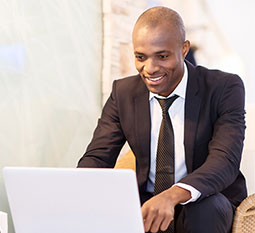
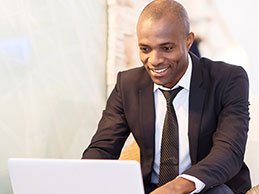
Fixed Aw139 and S76 pictures display in Sub-products

diff --git a/public/js/app/views/min/SubProductView-min.js b/public/js/app/views/min/SubProductView-min.js
@@ -1,1 +1,1 @@
-define(["jquery","hbs!templates/subproduct","backbone","models/Model","marionette"],function($,e,t,i){return t.Marionette.ItemView.extend({template:e,model:null,subproduct:{},events:{"click .more-info":"MoreInfo","mouseover .subfeature":"ShowSubFeat","mouseout .subfeature":"HideSubFeat"},initialize:function(e){if(this.subproduct.slug=e.subtype,this.subproduct.gallery={},this.subproduct.parent=e.type,this.subproduct.parent_name=this.subproduct.parent.replace("-"," ").replace("-"," "),"gulfsteam-giv-sp"===this.subproduct.slug){this.subproduct.banner="g450",this.subproduct.name="The Gulfstream GIV-SP",this.subproduct.des="<p>The Gulfstream GIV-SP provides the edge that every smart executive traveller is looking for. From its advanced sound suppression system, to its fresh air circulation; from its roomy cabin, to its signature oval windows which give two times more natural light to the cabin; the GIV-SP has been labeled “Best of the Best in the large aircraft category”. This jet has a cabin height of 1.88m (6ft 2in), a cabin length of 12.29m (40ft 4 in), and a total interior length of 13.74m (49ft 1in).</p>",this.subproduct.title="Aircraft Details",this.subproduct.features=[{icon:"check",cols:"12",align:"center",title:"On-board Amenities",subfeatures:[{icon:"phone",value:"7 channel Honeywell satellite communications system for phone and modem transmissions"},{icon:"mobile-phone",value:"Satellite Phone"},{icon:"wifi",value:"Wireless Local Network"},{icon:"print",value:"multi-function printer"},{icon:"bed",value:"4 single beds and 1 double bed capacity"},{icon:"music",value:"CD/DVD and sound system"},{icon:"cutlery",value:"microwave and oven"},{icon:"coffee",value:"coffee maker"},{icon:"male",value:"restroom"},{icon:"desktop",value:"hi-definition TV screens"}]},{icon:"calendar",cols:"3",align:"center",title:"Year of Manufacture",value:"2000"},{icon:"clock-o",cols:"3",align:"center",title:"Non-stop Flight Time",value:"8 Hours"},{icon:"send",cols:"3",align:"center",title:"Range",value:"4,860 miles"},{icon:"group",cols:"3",align:"center",title:"Seating Capacity",value:"14 Passengers"}],this.subproduct.gallery.title="Inside the Gulfstream G-IV SP",this.subproduct.gallery.count=69,this.subproduct.gallery.path="http://demos.shixels.com/nest_av/img/g450/g450-",this.subproduct.gallery.images=[];for(var t=1;t<=this.subproduct.gallery.count;t++)59!==t&&this.subproduct.gallery.images.push({path:this.subproduct.gallery.path+t+".jpg"})}if("gulfsteam-G200"===this.subproduct.slug){this.subproduct.banner="g200",this.subproduct.name="The Gulfstream G200",this.subproduct.des="<p>The G-200 offers the range and comfort of a large jet, but is a super mid-size jet. This jet is a 2 crew aircraft with a length of 18.97m (62ft 3 in), a cabin width of 2.18m (7ft 2in), and a cabin height of 1.91m (6ft 3in).</p>",this.subproduct.title="Aircraft Details",this.subproduct.features=[{icon:"check",cols:"12",align:"center",title:"On-board Amenities",subfeatures:[{icon:"mobile-phone",value:"Satellite Phone"},{icon:"suitcase",value:"accessible rear baggage compartment"},{icon:"bed",value:"4 bed capacity"},{icon:"music",value:"iPod touch, DVD player, & cabin sound system"}]},{icon:"calendar",cols:"3",align:"center",title:"Year of Manufacture",value:"2008"},{icon:"clock-o",cols:"3",align:"center",title:"Non-stop Flight Time",value:"6 Hours"},{icon:"send",cols:"3",align:"center",title:"Range",value:"6300km (3,910 miles)"},{icon:"group",cols:"3",align:"center",title:"Seating Capacity",value:"8 Passengers"}],this.subproduct.gallery.title="Inside the G200",this.subproduct.gallery.count=1,this.subproduct.gallery.path="http://demos.shixels.com/nest_av/img/g200/g200-",this.subproduct.gallery.images=[];for(var s=1;s<=this.subproduct.gallery.count;s++)this.subproduct.gallery.images.push({path:this.subproduct.gallery.path+s+".jpg"})}if("sikorsky-s76"===this.subproduct.slug){this.subproduct.banner="sikorsky",this.subproduct.name="The Sikorsky S76 ",this.subproduct.subheading="Operates out of Port Harcourt",this.subproduct.des="<p>VIP configured aircraft which is able to fly passengers in safety and comfort to all locations, onshore or offshore. It is a twin-engine multi-purpose aircraft with a length of 16m (52ft 49in), a height of 4.42m (14ft 5in), and a rate of climb of 495 miles/min (1625 ft/min).</p>",this.subproduct.title="Aircraft Details",this.subproduct.features=[{icon:"check",cols:"12",align:"center",title:"On-board Amenities",subfeatures:[{icon:"mobile-phone",value:"Satellite Phone"},{icon:"music",value:"DVD (2 screens) & passenger individual headset jack"},{icon:"coffee",value:"Coffee Maker"},{icon:"cutlery",value:"refrigerator & minibar"}]},{icon:"calendar",cols:"3",align:"center",title:"Year of Manufacture",value:"2008"},{icon:"clock-o",cols:"3",align:"center",title:"Non-stop Flight Time",value:"2 Hours"},{icon:"send",cols:"3",align:"center",title:"Range",value:"832 km (517 miles)"},{icon:"group",cols:"3",align:"center",title:"Seating Capacity",value:"6 Passengers"}],this.subproduct.gallery.title="Inside the Sikorsky S76",this.subproduct.gallery.count=7,this.subproduct.gallery.path="http://demos.shixels.com/nest_av/img/sikorsky/sikorsky-",this.subproduct.gallery.images=[];for(var a=1;a<=this.subproduct.gallery.count;a++)this.subproduct.gallery.images.push({path:this.subproduct.gallery.path+a+".JPG"})}if("agustswestland-aw139"===this.subproduct.slug){this.subproduct.banner="bg-aw139",this.subproduct.name="The AgustaWestland AW139 ",this.subproduct.subheading="Operates out of Port Harcourt",this.subproduct.des="<p>We have two (2) units of the AW139 utility configured helicopters to facilitate our operations in the helicopter charter service. This aircraft is flown by a 2-man crew, and has a 12-15 passenger seating capacity. The length of the helicopter is 13.77m (45ft 3in), the width is 2.26m (10ft 0 in), the height is 3.72m (12ft 2in). They have a maximum speed of 310km/h (193mph), and a rate of climb of 10.9miles/sec (2140ft/min).</p>",this.subproduct.title="Aircraft Details",this.subproduct.features=[{icon:"check",cols:"12",align:"center",title:"On-board Amenities",subfeatures:[{icon:"mobile-phone",value:"Satellite Phone"},{icon:"music",value:"DVD (2 screens) & passenger individual headset jack"},{icon:"coffee",value:"Coffee Maker"},{icon:"cutlery",value:"refrigerator & minibar"}]},{icon:"calendar",cols:"3",align:"center",title:"Year of Manufacture",value:"2011"},{icon:"clock-o",cols:"3",align:"center",title:"Non-stop Flight Time",value:"3.5 Hours"},{icon:"send",cols:"3",align:"center",title:"Range",value:"1,061km (573 miles)"},{icon:"group",cols:"3",align:"center",title:"Seating Capacity",value:"12 Passengers"}],this.subproduct.gallery.title="Inside the AgustaWestland AW139",this.subproduct.gallery.count=11,this.subproduct.gallery.path="http://demos.shixels.com/nest_av/img/aw139/aw139-",this.subproduct.gallery.images=[];for(var o=1;o<=this.subproduct.gallery.count;o++)this.subproduct.gallery.images.push({path:this.subproduct.gallery.path+o+".JPG"})}"bombardier-challenger-300"===this.subproduct.slug&&(this.subproduct.banner="bom300",this.subproduct.name="The Bombardier Challenger 300",this.subproduct.subheading="Operates out of Port Harcourt",this.subproduct.des="<p>The Bombardier Challenger 300 is a super- midsize business jet offering exceptional comfort and performance with a 6,149km range.</p>",this.subproduct.title="Aircraft Details",this.subproduct.features=[{icon:"check",cols:"12",align:"center",title:"On-board Amenities",subfeatures:[{icon:"mobile-phone",value:"Satellite Phone"},{icon:"music",value:"Cabin sound system"},{icon:"bed",value:"2 bed capacity"},{icon:"male",value:"restroom"},{icon:"coffee",value:"Coffee Maker"},{icon:"cutlery",value:"microwave oven"},{icon:"desktop",value:"20” wide-screen monitors"}]},{icon:"calendar",cols:"3",align:"center",title:"Year of Manufacture",value:"2009"},{icon:"clock-o",cols:"3",align:"center",title:"Non-stop Flight Time",value:"8 Hours"},{icon:"send",cols:"3",align:"center",title:"Range",value:"6,149km"},{icon:"group",cols:"3",align:"center",title:"Seating Capacity",value:"8 Passengers"}],this.subproduct.gallery.title=null),"dessault-falcon-900dx"===this.subproduct.slug&&(this.subproduct.banner="des900dx",this.subproduct.name="The Dassault Falcon 900DX",this.subproduct.subheading="Operates out of Port Harcourt",this.subproduct.des="<p>The Dassault Falcon 900DX is a tri-engine, large cabin business jet with one of the largest cabins in its class.</p>",this.subproduct.title="Aircraft Details",this.subproduct.features=[{icon:"check",cols:"12",align:"center",title:"On-board Amenities",subfeatures:[{icon:"mobile-phone",value:"Satellite Phone"},{icon:"music",value:"Cabin sound system"},{icon:"bed",value:"4 bed capacity"},{icon:"male",value:"restroom"},{icon:"coffee",value:"Coffee Maker"},{icon:"cutlery",value:"microwave oven & well stocked gallery"}]},{icon:"calendar",cols:"3",align:"center",title:"Year of Manufacture",value:"2007"},{icon:"clock-o",cols:"3",align:"center",title:"Non-stop Flight Time",value:"10 Hours"},{icon:"send",cols:"3",align:"center",title:"Range",value:"7,950 km"},{icon:"group",cols:"3",align:"center",title:"Seating Capacity",value:"14 Passengers"}],this.subproduct.gallery.title=null),"phenom-300"===this.subproduct.slug&&(this.subproduct.banner="phen300",this.subproduct.name="The Phenom 300",this.subproduct.subheading="Operates out of Port Harcourt",this.subproduct.des="<p>These spacious and comfortable best-in-class jets set a new standard for business jets. Its range, speed, comfort and intelligent design all combine to suit the need of a business traveller. It has a 6 passenger seating capacity, a range of 3,650km (2,268 miles), a length of 15.9m (52ft 2 in) and a cabin height of 1.5m (4ft 9 in).</p>",this.subproduct.title="Aircraft Details",this.subproduct.features=[{icon:"check",cols:"12",align:"center",title:"On-board Amenities",subfeatures:[{icon:"mobile-phone",value:"Satellite Phone"},{icon:"music",value:"Cabin sound system"},{icon:"male",value:"restroom"},{icon:"coffee",value:"Coffee Maker"},{icon:"cutlery",value:"microwave oven"}]}],this.subproduct.gallery.title=null),this.model=new i({subproduct:this.subproduct}),$(function(){$('[data-toggle="tooltip"]').tooltip()}),console.log(this.subproduct)},onRender:function(){nest.api.core.cleanView(this,".serv-menu")},MoreInfo:function(e){e.preventDefault();var t=$(e.currentTarget).data("hash");window.location.hash=t},ShowSubFeat:function(e){$(e.currentTarget).find(".sub-value").css("display","table")},HideSubFeat:function(e){$(e.currentTarget).find(".sub-value").css("display","none")}})});
+define(["jquery","hbs!templates/subproduct","backbone","models/Model","marionette"],function($,e,t,i){return t.Marionette.ItemView.extend({template:e,model:null,subproduct:{},events:{"click .more-info":"MoreInfo","mouseover .subfeature":"ShowSubFeat","mouseout .subfeature":"HideSubFeat"},initialize:function(e){if(this.subproduct.slug=e.subtype,this.subproduct.gallery={},this.subproduct.parent=e.type,this.subproduct.parent_name=this.subproduct.parent.replace("-"," ").replace("-"," "),"gulfsteam-giv-sp"===this.subproduct.slug){this.subproduct.banner="g450",this.subproduct.name="The Gulfstream GIV-SP",this.subproduct.des="<p>The Gulfstream GIV-SP provides the edge that every smart executive traveller is looking for. From its advanced sound suppression system, to its fresh air circulation; from its roomy cabin, to its signature oval windows which give two times more natural light to the cabin; the GIV-SP has been labeled “Best of the Best in the large aircraft category”. This jet has a cabin height of 1.88m (6ft 2in), a cabin length of 12.29m (40ft 4 in), and a total interior length of 13.74m (49ft 1in).</p>",this.subproduct.title="Aircraft Details",this.subproduct.features=[{icon:"check",cols:"12",align:"center",title:"On-board Amenities",subfeatures:[{icon:"phone",value:"7 channel Honeywell satellite communications system for phone and modem transmissions"},{icon:"mobile-phone",value:"Satellite Phone"},{icon:"wifi",value:"Wireless Local Network"},{icon:"print",value:"multi-function printer"},{icon:"bed",value:"4 single beds and 1 double bed capacity"},{icon:"music",value:"CD/DVD and sound system"},{icon:"cutlery",value:"microwave and oven"},{icon:"coffee",value:"coffee maker"},{icon:"male",value:"restroom"},{icon:"desktop",value:"hi-definition TV screens"}]},{icon:"calendar",cols:"3",align:"center",title:"Year of Manufacture",value:"2000"},{icon:"clock-o",cols:"3",align:"center",title:"Non-stop Flight Time",value:"8 Hours"},{icon:"send",cols:"3",align:"center",title:"Range",value:"4,860 miles"},{icon:"group",cols:"3",align:"center",title:"Seating Capacity",value:"14 Passengers"}],this.subproduct.gallery.title="Inside the Gulfstream G-IV SP",this.subproduct.gallery.count=69,this.subproduct.gallery.path="http://demos.shixels.com/nest_av/img/g450/g450-",this.subproduct.gallery.images=[];for(var t=1;t<=this.subproduct.gallery.count;t++)59!==t&&this.subproduct.gallery.images.push({path:this.subproduct.gallery.path+t+".jpg"})}if("gulfsteam-G200"===this.subproduct.slug){this.subproduct.banner="g200",this.subproduct.name="The Gulfstream G200",this.subproduct.des="<p>The G-200 offers the range and comfort of a large jet, but is a super mid-size jet. This jet is a 2 crew aircraft with a length of 18.97m (62ft 3 in), a cabin width of 2.18m (7ft 2in), and a cabin height of 1.91m (6ft 3in).</p>",this.subproduct.title="Aircraft Details",this.subproduct.features=[{icon:"check",cols:"12",align:"center",title:"On-board Amenities",subfeatures:[{icon:"mobile-phone",value:"Satellite Phone"},{icon:"suitcase",value:"accessible rear baggage compartment"},{icon:"bed",value:"4 bed capacity"},{icon:"music",value:"iPod touch, DVD player, & cabin sound system"}]},{icon:"calendar",cols:"3",align:"center",title:"Year of Manufacture",value:"2008"},{icon:"clock-o",cols:"3",align:"center",title:"Non-stop Flight Time",value:"6 Hours"},{icon:"send",cols:"3",align:"center",title:"Range",value:"6300km (3,910 miles)"},{icon:"group",cols:"3",align:"center",title:"Seating Capacity",value:"8 Passengers"}],this.subproduct.gallery.title="Inside the G200",this.subproduct.gallery.count=1,this.subproduct.gallery.path="http://demos.shixels.com/nest_av/img/g200/g200-",this.subproduct.gallery.images=[];for(var s=1;s<=this.subproduct.gallery.count;s++)this.subproduct.gallery.images.push({path:this.subproduct.gallery.path+s+".jpg"})}if("sikorsky-s76"===this.subproduct.slug){this.subproduct.banner="sikorsky",this.subproduct.name="The Sikorsky S76 ",this.subproduct.subheading="Operates out of Port Harcourt",this.subproduct.des="<p>VIP configured aircraft which is able to fly passengers in safety and comfort to all locations, onshore or offshore. It is a twin-engine multi-purpose aircraft with a length of 16m (52ft 49in), a height of 4.42m (14ft 5in), and a rate of climb of 495 miles/min (1625 ft/min).</p>",this.subproduct.title="Aircraft Details",this.subproduct.features=[{icon:"check",cols:"12",align:"center",title:"On-board Amenities",subfeatures:[{icon:"mobile-phone",value:"Satellite Phone"},{icon:"music",value:"DVD (2 screens) & passenger individual headset jack"},{icon:"coffee",value:"Coffee Maker"},{icon:"cutlery",value:"refrigerator & minibar"}]},{icon:"calendar",cols:"3",align:"center",title:"Year of Manufacture",value:"2008"},{icon:"clock-o",cols:"3",align:"center",title:"Non-stop Flight Time",value:"2 Hours"},{icon:"send",cols:"3",align:"center",title:"Range",value:"832 km (517 miles)"},{icon:"group",cols:"3",align:"center",title:"Seating Capacity",value:"6 Passengers"}],this.subproduct.gallery.title="Inside the Sikorsky S76",this.subproduct.gallery.count=7,this.subproduct.gallery.path="http://demos.shixels.com/nest_av/img/sikorsky/sikorsky-",this.subproduct.gallery.images=[];for(var a=1;a<=this.subproduct.gallery.count;a++)this.subproduct.gallery.images.push({path:this.subproduct.gallery.path+a+".jpg"})}if("agustswestland-aw139"===this.subproduct.slug){this.subproduct.banner="bg-aw139",this.subproduct.name="The AgustaWestland AW139 ",this.subproduct.subheading="Operates out of Port Harcourt",this.subproduct.des="<p>We have two (2) units of the AW139 utility configured helicopters to facilitate our operations in the helicopter charter service. This aircraft is flown by a 2-man crew, and has a 12-15 passenger seating capacity. The length of the helicopter is 13.77m (45ft 3in), the width is 2.26m (10ft 0 in), the height is 3.72m (12ft 2in). They have a maximum speed of 310km/h (193mph), and a rate of climb of 10.9miles/sec (2140ft/min).</p>",this.subproduct.title="Aircraft Details",this.subproduct.features=[{icon:"check",cols:"12",align:"center",title:"On-board Amenities",subfeatures:[{icon:"mobile-phone",value:"Satellite Phone"},{icon:"music",value:"DVD (2 screens) & passenger individual headset jack"},{icon:"coffee",value:"Coffee Maker"},{icon:"cutlery",value:"refrigerator & minibar"}]},{icon:"calendar",cols:"3",align:"center",title:"Year of Manufacture",value:"2011"},{icon:"clock-o",cols:"3",align:"center",title:"Non-stop Flight Time",value:"3.5 Hours"},{icon:"send",cols:"3",align:"center",title:"Range",value:"1,061km (573 miles)"},{icon:"group",cols:"3",align:"center",title:"Seating Capacity",value:"12 Passengers"}],this.subproduct.gallery.title="Inside the AgustaWestland AW139",this.subproduct.gallery.count=11,this.subproduct.gallery.path="http://demos.shixels.com/nest_av/img/aw139/aw139-",this.subproduct.gallery.images=[];for(var o=1;o<=this.subproduct.gallery.count;o++)this.subproduct.gallery.images.push({path:this.subproduct.gallery.path+o+".jpg"})}"bombardier-challenger-300"===this.subproduct.slug&&(this.subproduct.banner="bom300",this.subproduct.name="The Bombardier Challenger 300",this.subproduct.subheading="Operates out of Port Harcourt",this.subproduct.des="<p>The Bombardier Challenger 300 is a super- midsize business jet offering exceptional comfort and performance with a 6,149km range.</p>",this.subproduct.title="Aircraft Details",this.subproduct.features=[{icon:"check",cols:"12",align:"center",title:"On-board Amenities",subfeatures:[{icon:"mobile-phone",value:"Satellite Phone"},{icon:"music",value:"Cabin sound system"},{icon:"bed",value:"2 bed capacity"},{icon:"male",value:"restroom"},{icon:"coffee",value:"Coffee Maker"},{icon:"cutlery",value:"microwave oven"},{icon:"desktop",value:"20” wide-screen monitors"}]},{icon:"calendar",cols:"3",align:"center",title:"Year of Manufacture",value:"2009"},{icon:"clock-o",cols:"3",align:"center",title:"Non-stop Flight Time",value:"8 Hours"},{icon:"send",cols:"3",align:"center",title:"Range",value:"6,149km"},{icon:"group",cols:"3",align:"center",title:"Seating Capacity",value:"8 Passengers"}],this.subproduct.gallery.title=null),"dessault-falcon-900dx"===this.subproduct.slug&&(this.subproduct.banner="des900dx",this.subproduct.name="The Dassault Falcon 900DX",this.subproduct.subheading="Operates out of Port Harcourt",this.subproduct.des="<p>The Dassault Falcon 900DX is a tri-engine, large cabin business jet with one of the largest cabins in its class.</p>",this.subproduct.title="Aircraft Details",this.subproduct.features=[{icon:"check",cols:"12",align:"center",title:"On-board Amenities",subfeatures:[{icon:"mobile-phone",value:"Satellite Phone"},{icon:"music",value:"Cabin sound system"},{icon:"bed",value:"4 bed capacity"},{icon:"male",value:"restroom"},{icon:"coffee",value:"Coffee Maker"},{icon:"cutlery",value:"microwave oven & well stocked gallery"}]},{icon:"calendar",cols:"3",align:"center",title:"Year of Manufacture",value:"2007"},{icon:"clock-o",cols:"3",align:"center",title:"Non-stop Flight Time",value:"10 Hours"},{icon:"send",cols:"3",align:"center",title:"Range",value:"7,950 km"},{icon:"group",cols:"3",align:"center",title:"Seating Capacity",value:"14 Passengers"}],this.subproduct.gallery.title=null),"phenom-300"===this.subproduct.slug&&(this.subproduct.banner="phen300",this.subproduct.name="The Phenom 300",this.subproduct.subheading="Operates out of Port Harcourt",this.subproduct.des="<p>These spacious and comfortable best-in-class jets set a new standard for business jets. Its range, speed, comfort and intelligent design all combine to suit the need of a business traveller. It has a 6 passenger seating capacity, a range of 3,650km (2,268 miles), a length of 15.9m (52ft 2 in) and a cabin height of 1.5m (4ft 9 in).</p>",this.subproduct.title="Aircraft Details",this.subproduct.features=[{icon:"check",cols:"12",align:"center",title:"On-board Amenities",subfeatures:[{icon:"mobile-phone",value:"Satellite Phone"},{icon:"music",value:"Cabin sound system"},{icon:"male",value:"restroom"},{icon:"coffee",value:"Coffee Maker"},{icon:"cutlery",value:"microwave oven"}]}],this.subproduct.gallery.title=null),this.model=new i({subproduct:this.subproduct}),$(function(){$('[data-toggle="tooltip"]').tooltip()}),console.log(this.subproduct)},onRender:function(){nest.api.core.cleanView(this,".serv-menu")},MoreInfo:function(e){e.preventDefault();var t=$(e.currentTarget).data("hash");window.location.hash=t},ShowSubFeat:function(e){$(e.currentTarget).find(".sub-value").css("display","table")},HideSubFeat:function(e){$(e.currentTarget).find(".sub-value").css("display","none")}})});

diff --git a/public/js/app/views/SubProductView.js b/public/js/app/views/SubProductView.js
@@ -293,7 +293,7 @@ define(['jquery', 'hbs!templates/subproduct', 'backbone','models/Model', 'marion
                     for (var k = 1; k <= this.subproduct.gallery.count; k++) {
                         this.subproduct.gallery.images.push(
                             {
-                                path: this.subproduct.gallery.path + k + '.JPG'
+                                path: this.subproduct.gallery.path + k + '.jpg'
                             }
                         );
                     }
@@ -377,7 +377,7 @@ define(['jquery', 'hbs!templates/subproduct', 'backbone','models/Model', 'marion
                     for (var l = 1; l <= this.subproduct.gallery.count; l++) {
                         this.subproduct.gallery.images.push(
                             {
-                                path: this.subproduct.gallery.path + l + '.JPG'
+                                path: this.subproduct.gallery.path + l + '.jpg'
                             }
                         );
                     }

diff --git a/public/css/desktop.css b/public/css/desktop.css
@@ -2599,7 +2599,7 @@ a.thumbnail img {
   .bg-img.phen300 {
     background-image: url("http://demos.shixels.com/nest_av/img/phen/phen-1.jpg"); }
   .bg-img.sikorsky {
-    background-image: url("http://demos.shixels.com/nest_av/img/sikorsky/sikorsky-3.JPG"); }
+    background-image: url("http://demos.shixels.com/nest_av/img/sikorsky/sikorsky-3.jpg"); }
 
 .top-banner {
   margin: 0 !important;
@@ -2635,7 +2635,7 @@ a.thumbnail img {
   .top-banner.top {
     background-position: 0 35% !important; }
   .top-banner.sikorsky {
-    background-image: url("http://demos.shixels.com/nest_av/img/sikorsky/sikorsky-3.JPG");
+    background-image: url("http://demos.shixels.com/nest_av/img/sikorsky/sikorsky-3.jpg");
     height: 450px !important; }
 
 .feature {

diff --git a/public/js/app/templates/scss/services.scss b/public/js/app/templates/scss/services.scss
@@ -31,7 +31,7 @@
 		background-image: url('http://demos.shixels.com/nest_av/img/phen/phen-1.jpg');
 	}
 	&.sikorsky {
-		background-image: url('http://demos.shixels.com/nest_av/img/sikorsky/sikorsky-3.JPG');
+		background-image: url('http://demos.shixels.com/nest_av/img/sikorsky/sikorsky-3.jpg');
 	}
 }
 
@@ -79,7 +79,7 @@
 		background-position: 0 35% !important;
 	}
 	&.sikorsky {
-		background-image: url('http://demos.shixels.com/nest_av/img/sikorsky/sikorsky-3.JPG');
+		background-image: url('http://demos.shixels.com/nest_av/img/sikorsky/sikorsky-3.jpg');
 		height: 450px !important;
 	}
 }

diff --git a/public/js/app/templates/how.html b/public/js/app/templates/how.html
@@ -17,7 +17,7 @@
 				<div class="row">
 			  <div class="col-sm-6 col-md-4">
 			    <div class="thumbnail">
-			      <img src="http://demos.shixels.com/nest_av/img/step1.jpeg" alt="...">
+			      <img src="http://demos.shixels.com/nest_av/img/step.jpg" alt="...">
 			      <div class="caption">
 			        <h3>Step 1.</h3>
 			        <p>Fill our contact form</p>

diff --git a/public/index.html b/public/index.html
@@ -27,7 +27,7 @@
             // App Environment
             // ---------------
             //  Tip: Set to true to turn on "production" mode
-            var production = true,
+            var production = false,
                     filesToLoad,
             //BoilerplateMVC Helper Methods
                     boilerplateMVC = {
